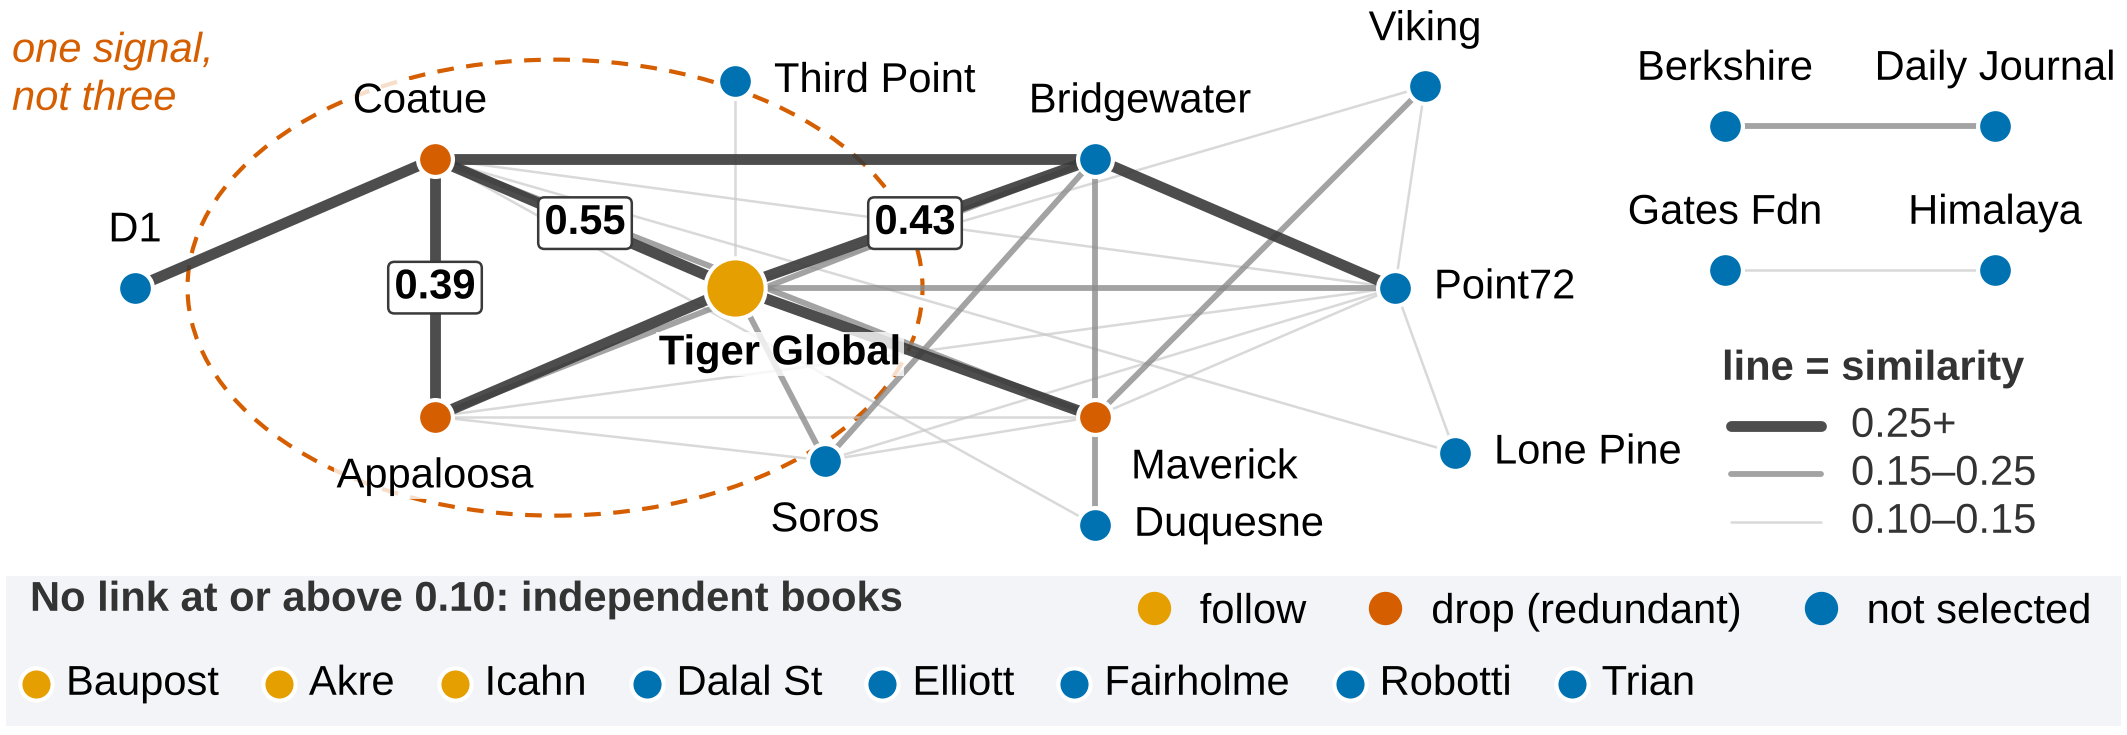
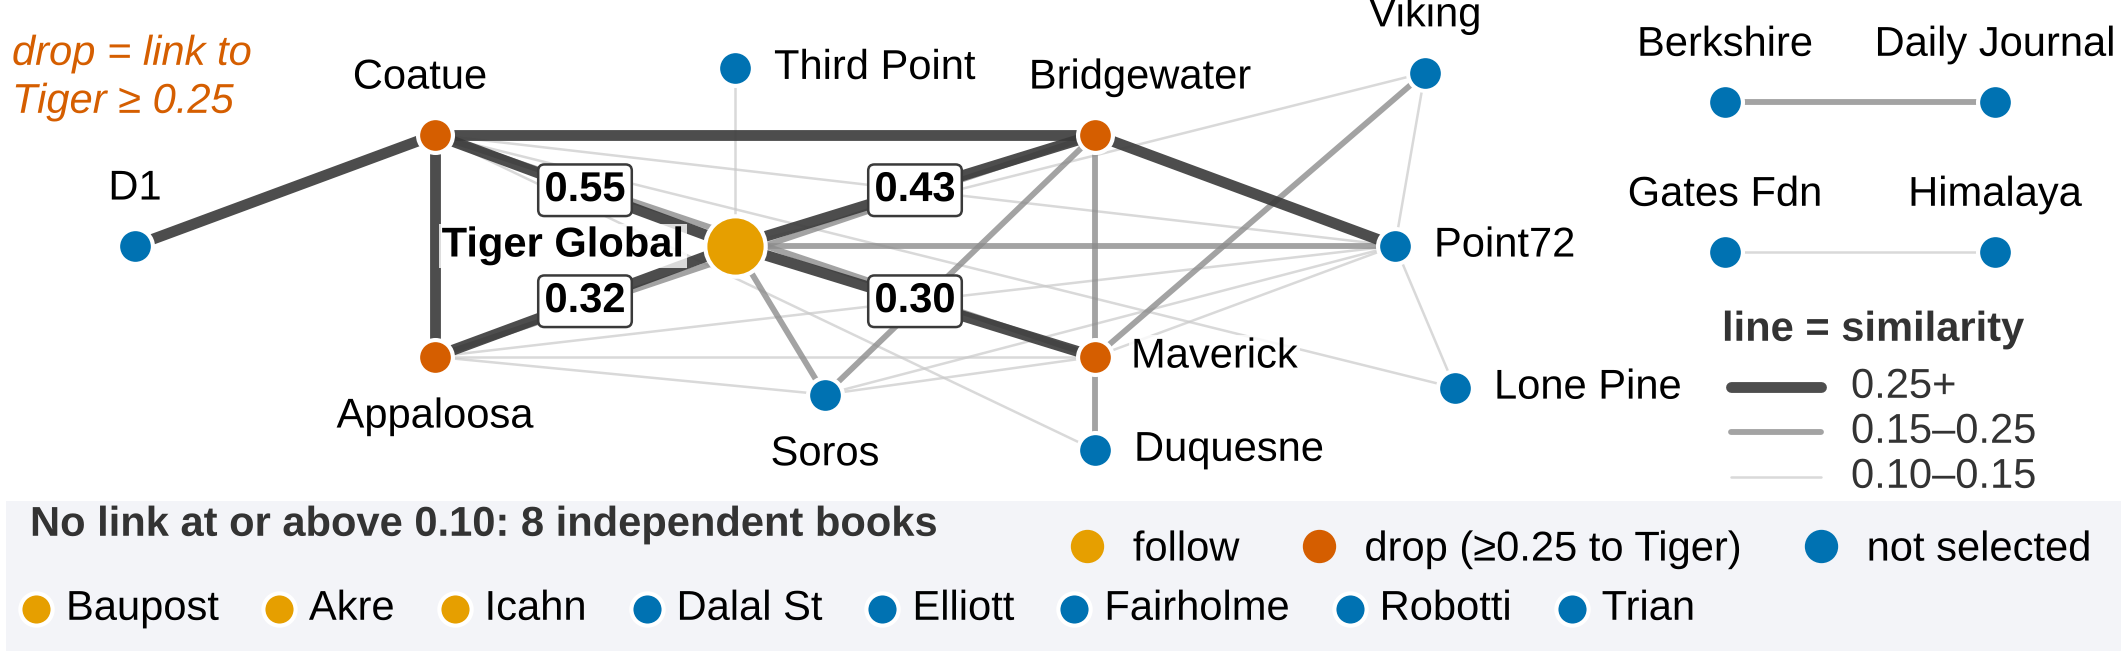
Add files via upload

diff --git a/figure2.py b/figure2.py
@@ -22,18 +22,18 @@ def crossings(pos):
             if ccw(a, c, d) != ccw(b, c, d) and ccw(a, b, c) != ccw(a, b, d): n += 1
     return n
 Q = None
-FW, FH = 7.09, 2.45
+FW, FH = 7.09, 2.2
 fig = plt.figure(figsize=(FW, FH), dpi=300); ax = fig.add_axes([0, 0, 1, 1]); ax.set_xlim(0, FW); ax.set_ylim(0, FH); ax.axis("off")
 P = {"D1": (0.45, 1.62), "Coatue": (1.45, 2.12), "Appaloosa": (1.45, 1.12), "Tiger Global": (2.45, 1.62), "Third Point": (2.45, 2.42),
      "Bridgewater": (3.65, 2.12), "Maverick": (3.65, 1.12), "Soros": (2.75, 0.95), "Point72": (4.65, 1.62), "Viking": (4.75, 2.40), "Lone Pine": (4.85, 0.98), "Duquesne": (3.65, 0.70)}
-ty = lambda y: 0.70 + (y - 0.70) * 0.86
+ty = lambda y: 0.70 + (y - 0.70) * 0.74
 for _n in list(P): P[_n] = (P[_n][0], ty(P[_n][1]))
-P["Berkshire"], P["Daily Journal"] = (5.75, 2.03), (6.65, 2.03)
-P["Gates Fdn"], P["Himalaya"] = (5.75, 1.55), (6.65, 1.55)
-LAB = {"D1": ("center", 0, .19), "Coatue": ("center", -.05, .19), "Appaloosa": ("center", 0, -.20), "Tiger Global": ("center", .15, -.22), "Third Point": ("left", .13, .0),
-       "Bridgewater": ("center", .15, .19), "Maverick": ("left", .12, -.17), "Soros": ("center", 0, -.20), "Point72": ("left", .13, .0), "Viking": ("center", 0, .19), "Lone Pine": ("left", .13, 0), "Duquesne": ("left", .13, 0),
+P["Berkshire"], P["Daily Journal"] = (5.75, 1.86), (6.65, 1.86)
+P["Gates Fdn"], P["Himalaya"] = (5.75, 1.36), (6.65, 1.36)
+LAB = {"D1": ("center", 0, .19), "Coatue": ("center", -.05, .19), "Appaloosa": ("center", 0, -.20), "Tiger Global": ("right", -.17, 0), "Third Point": ("left", .13, .0),
+       "Bridgewater": ("center", .15, .19), "Maverick": ("left", .12, 0), "Soros": ("center", 0, -.20), "Point72": ("left", .13, .0), "Viking": ("center", 0, .19), "Lone Pine": ("left", .13, 0), "Duquesne": ("left", .13, 0),
        "Berkshire": ("center", 0, .19), "Daily Journal": ("center", 0, .19), "Gates Fdn": ("center", 0, .19), "Himalaya": ("center", 0, .19)}
-follow = {"Tiger Global", "Baupost", "Akre", "Icahn"}; drop = {"Coatue", "Appaloosa", "Maverick"}
+follow = {"Tiger Global", "Baupost", "Akre", "Icahn"}; drop = {"Coatue", "Bridgewater", "Appaloosa", "Maverick"}
 col = lambda n: "#E69F00" if n in follow else ("#D55E00" if n in drop else "#0072B2")
 def tier(w): return 2 if w >= .25 else (1 if w >= .15 else 0)
 sty = [dict(lw=.6, c="#C9C9C9", a=.7, z=1), dict(lw=1.4, c="#8C8C8C", a=.8, z=1.5), dict(lw=2.6, c="#3A3A3A", a=.9, z=2)]
@@ -49,29 +49,28 @@ for n in G:
     ha, dx, dy = LAB[n]
     ax.text(P[n][0]+dx, P[n][1]+dy, n, fontsize=FS, ha=ha, va="center", zorder=6, fontweight="bold" if n == "Tiger Global" else "normal", bbox=dict(fc="white", ec="none", pad=0.6, alpha=.8))
 # edge value labels
-for (a, b, dx, dy) in [("Coatue", "Tiger Global", 0, 0), ("Bridgewater", "Tiger Global", 0, 0), ("Appaloosa", "Coatue", 0, 0)]:
+for (a, b, dx, dy) in [("Coatue", "Tiger Global", 0, 0), ("Bridgewater", "Tiger Global", 0, 0), ("Appaloosa", "Tiger Global", 0, 0), ("Maverick", "Tiger Global", 0, 0)]:
     if G.has_edge(a, b):
         mx, my = (P[a][0]+P[b][0])/2, (P[a][1]+P[b][1])/2
         ax.text(mx+dx, my+dy, f"{idf.loc[a, b]:.2f}", fontsize=FS, fontweight="bold", ha="center", va="center", zorder=7, bbox=dict(fc="white", ec="#3A3A3A", lw=.6, pad=1.2, boxstyle="round,pad=0.15"))
-ax.add_patch(Ellipse((1.85, ty(1.62)), 2.45, 1.52, fc="none", ec="#D55E00", lw=1, ls=(0, (4, 3)), zorder=0.5))
-ax.text(0.04, 2.28, "one signal,", fontsize=FS, color="#D55E00", ha="left", va="center", style="italic", zorder=6)
-ax.text(0.04, 2.12, "not three", fontsize=FS, color="#D55E00", ha="left", va="center", style="italic", zorder=6)
+ax.text(0.04, 2.02, "drop = link to", fontsize=FS, color="#D55E00", ha="left", va="center", style="italic", zorder=6)
+ax.text(0.04, 1.86, "Tiger \u2265 0.25", fontsize=FS, color="#D55E00", ha="left", va="center", style="italic", zorder=6)
 ax.text(6.2, 2.62, "linked pairs", fontsize=FS, color="#666", ha="center", va="center") if False else None
 # independent strip
 ax.add_patch(plt.Rectangle((0.02, 0.03), FW-0.04, 0.50, fc="#F3F4F8", ec="none", zorder=0))
-ax.text(0.10, 0.45, "No link at or above 0.10: independent books", fontsize=FS, color="#333", va="center", fontweight="bold")
+ax.text(0.10, 0.45, "No link at or above 0.10: 8 independent books", fontsize=FS, color="#333", va="center", fontweight="bold")
 xs_i = [0.10, 1.33, 2.30, 3.40, 4.52, 5.40, 6.05, 6.55]
 order = ["Baupost", "Akre", "Icahn", "Dalal St", "Elliott", "Fairholme", "Robotti", "Trian"]
 x = 0.12
 for n in order:
     ax.scatter(x, 0.17, s=60, color=col(n), ec="white", lw=1, zorder=3)
     t = ax.text(x+0.1, 0.17, n, fontsize=FS, va="center", zorder=3); bx = box(t); x = bx[2] + 0.2
-leg = [Line2D([], [], marker="o", ls="", color="#E69F00", ms=7, label="follow"), Line2D([], [], marker="o", ls="", color="#D55E00", ms=7, label="drop (redundant)"), Line2D([], [], marker="o", ls="", color="#0072B2", ms=7, label="not selected")]
+leg = [Line2D([], [], marker="o", ls="", color="#E69F00", ms=7, label="follow"), Line2D([], [], marker="o", ls="", color="#D55E00", ms=7, label="drop (\u22650.25 to Tiger)"), Line2D([], [], marker="o", ls="", color="#0072B2", ms=7, label="not selected")]
 ax.legend(handles=leg, loc="center right", bbox_to_anchor=(0.995, 0.167), ncol=3, fontsize=FS, frameon=False, handletextpad=0.1, columnspacing=0.9, borderpad=0.1)
 # line key (right column)
-ax.text(5.74, 1.22, "line = similarity", fontsize=FS, color="#333", va="center", fontweight="bold")
+ax.text(5.74, 1.10, "line = similarity", fontsize=FS, color="#333", va="center", fontweight="bold")
 for i, (t_, st_) in enumerate([("0.25+", sty[2]), ("0.15\u20130.25", sty[1]), ("0.10\u20130.15", sty[0])]):
-    yy = 1.03 - 0.16*i
+    yy = 0.91 - 0.15*i
     ax.plot([5.77, 6.07], [yy, yy], color=st_["c"], lw=st_["lw"], alpha=st_["a"], solid_capstyle="round")
     ax.text(6.17, yy, t_, fontsize=FS, color="#333", va="center")
 fig.savefig(f"{OUT}/network.png", dpi=300); print("ok", G.number_of_edges(), iso)

diff --git a/README.md b/README.md
@@ -13,7 +13,7 @@ python3 scripts/fetch13f.py data/resolved.json data/raw      # download + parse 
 python3 scripts/prep.py data                                 # drop options/ETFs, fix $-thousands filers -> data/holdings_clean.csv
 python3 scripts/analyze2.py data scripts                     # raw vs IDF cosine, cutoff sweep, Q1 vs Q2, hub-drop check
 python3 scripts/figure2.py data scripts .                    # network.png
-python3 scripts/build_pdf2.py report.pdf network.png "<repo url>"
+python3 scripts/build_pdf2.py report.pdf network.png "https://github.com/tha63030037-create/6810414003_madt7202_mid_network"
 ```
 `data/` already holds the outputs used in the report, so the first three steps can be skipped.
 To re-run for Q3 2026, change the two period dates (`2026-06-30`, `2026-03-31`) in `scripts/resolve.py`, `scripts/analyze2.py` and `scripts/figure2.py`.
